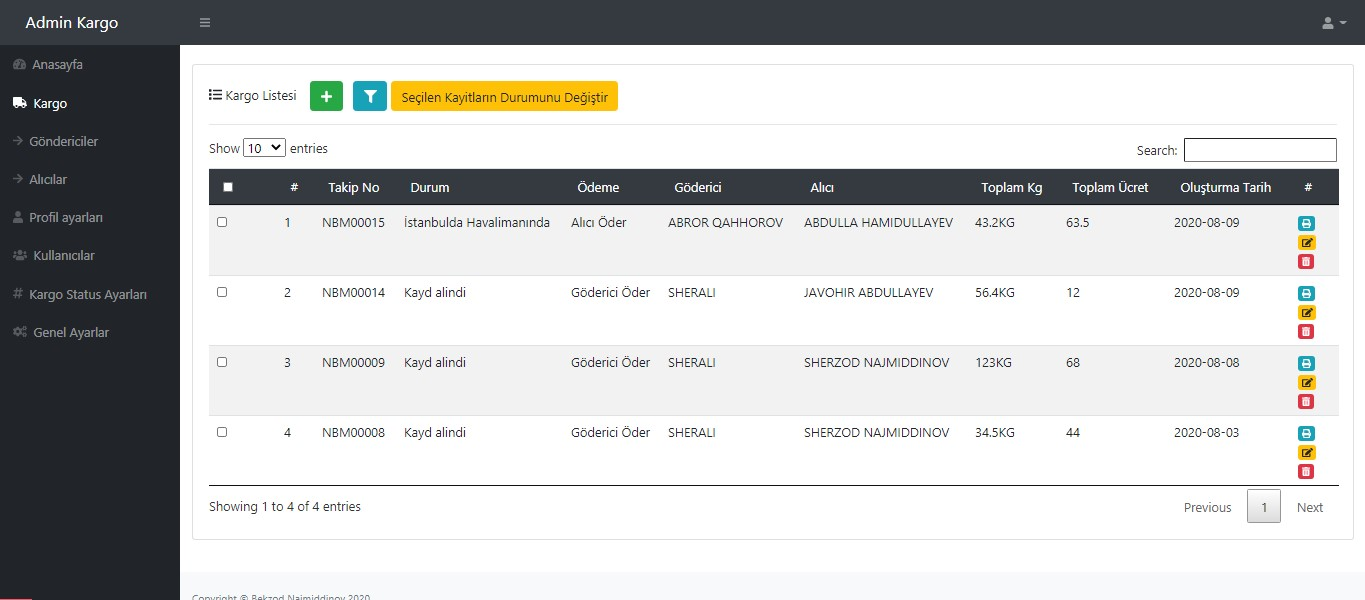
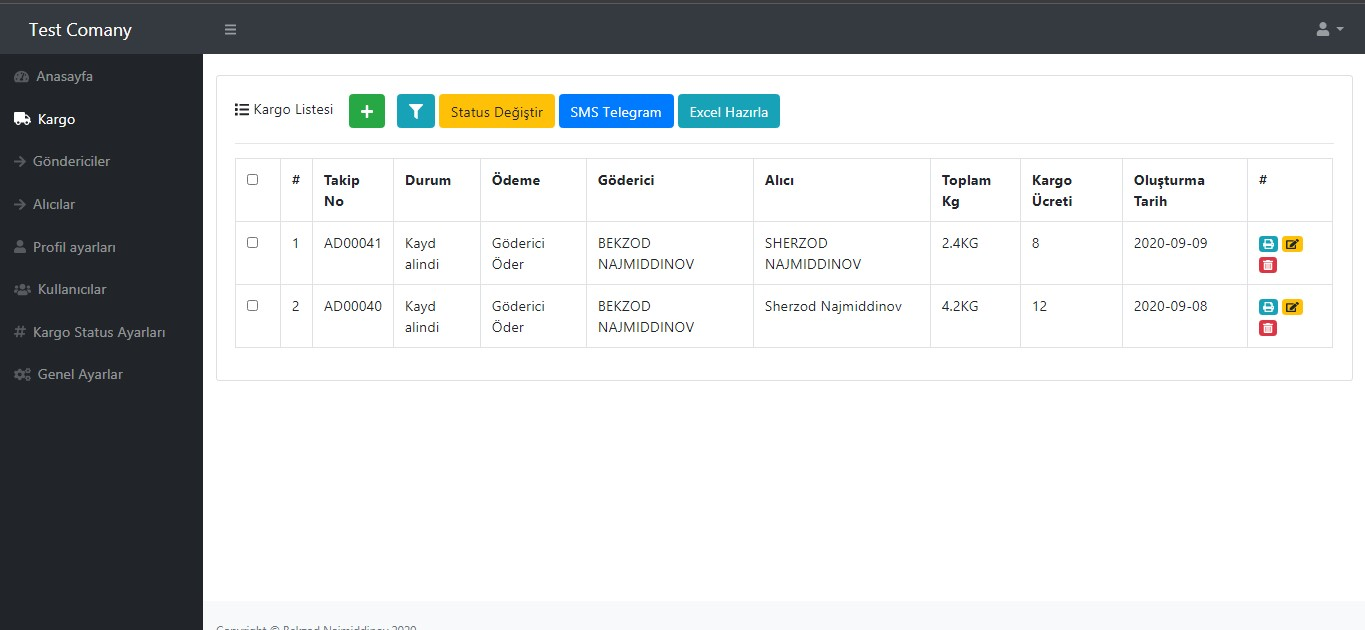
Added New Features Version 3.0

diff --git a/resources/views/admin/cargo/print.blade.php b/resources/views/admin/cargo/print.blade.php
@@ -2,7 +2,7 @@
 <html>
 	<head>
 		<meta charset="utf-8">
-		<meta name="viewport" content="width=device-width, initial-scale=1">
+		
 		<title>{{Auth::user()->company->name ?? ''}}</title>
 		<link rel="stylesheet" href="https://maxcdn.bootstrapcdn.com/bootstrap/4.4.1/css/bootstrap.min.css">
 		<!-- jQuery library -->
@@ -13,7 +13,7 @@
 		<script src="https://maxcdn.bootstrapcdn.com/bootstrap/4.4.1/js/bootstrap.min.js"></script>
 		<style type="text/css">
 			body{
-				font-size:10px;
+				font-size:9px;
 			}
 		</style>
 	</head>
@@ -24,7 +24,7 @@
 			<div class="row">
 				
 
-				<div class="col-md-4">
+				<div class="col-sm-4">
 					<center>
 					
 					<img style="width:auto"; height="100px" 
@@ -53,9 +53,13 @@
 						<td style="padding:0 15px 0 15px;"><b>Email </b></td>
 						<td style="padding:0 15px 0 15px;">{{$company->email}}</td>
 					</tr>
+					<tr>
+						<td style="padding:0 15px 0 15px;"><b>User</b></td>
+						<td style="padding:0 15px 0 15px;">{{ Auth::user()->name }}</td>
+					</tr>
 					</table>
 				</div>
-				<div class="col-md-4">
+				<div class="col-sm-4">
 					{{-- sender info --}}
 					<center><h1>Invoice</h1></center><br>
 					<table class="table-bordered" style="width:100%">
@@ -85,8 +89,7 @@
 					{{-- receiver info --}}
 					<br>
 					<table class="table-bordered" style="width:100%">
-						<input type="hidden" name="receiver_id"
-						value="{{$cargo->receiver->id}}">
+						
 						<tr>
 							<td class="text-center" style="padding:5px;" colspan="2">
 								<b>Receiver Info</b>
@@ -105,11 +108,15 @@
 						</tr>
 						{{-- sender phone --}}
 						<tr>
-							<td style="padding:0 15px 0 15px;"><b>Telefon </b></td>
+							<td style="padding:0 15px 0 15px;"><b>Telefon: 1 </b></td>
 							<td style="padding:0 15px 0 15px;">{{$cargo->receiver->phone}}
 							</td>
 						</tr>
-						
+						<tr>
+							<td style="padding:0 15px 0 15px;"><b>Telefon: 2 </b></td>
+							<td style="padding:0 15px 0 15px;">{{$cargo->receiver->other_phone ?? '-'}}
+							</td>
+						</tr>
 						<tr>
 							<td style="padding:0 15px 0 15px;"><b>Address </b></td>
 							<td style="padding:0 15px 0 15px;">
@@ -121,27 +128,27 @@
 					
 					
 				</div>
-				<div class="col-md-4">
+				<div class="col-sm-4">
 					<center><img src="{{url($barcode)}}"></center><br>
 					<table class="table-bordered" style="width:100%">
 						<input type="hidden" name="cargo_id"
 						value="{{$cargo->id}}">
 						<tr>
-							<td class="text-center" style="padding:5px;" colspan="2"><b>Kargo Bilgileri</b></td>
+							<td class="text-center" style="padding:5px;" colspan="2"><b>Kargo Info</b></td>
 						</tr>
 						<tr>
 							<td colspan="2" class="text-center"><h1>{{$cargo->number ?? ''}}</h1></td>
 						</tr>
 						<tr>
-							<td>Cargo Kg</td>
+							<td><b>Cargo Kg</b></td>
 							<td style="padding:0 15px 0 15px;">{{$cargo->total_kg}}</td>
 						</tr>
 						<tr>
-							<td>Shipping fee</td>
+							<td><b>Shipping fee</b></td>
 							<td style="padding:0 15px 0 15px;">{{$cargo->cargo_price}}</td>
 						</tr>
 						<tr>
-							<td>Payment type</td>
+							<td><b>Payment type</b></td>
 							<td style="padding:0 15px 0 15px;">
 								{{$cargo->payment_type == 1 ? "Sender Pays":""}}
 								
@@ -152,7 +159,7 @@
 						</tr>
 					</table>
 				</div>
-				<div class="col-md-12">
+				<div class="col-sm-12">
 					<br>
 					<table class="table-bordered" style="width:100%;" >
 						<tr>

diff --git a/app/Http/Controllers/Admin/CargoController.php b/app/Http/Controllers/Admin/CargoController.php
@@ -355,25 +355,93 @@ class CargoController extends Controller
         }
         $cargos = $cargos->get();
 
+
+
+        
+
+        if($request->type == 'manafes')
+        {
         $datas = [
-                    [ 'Invoice No','Name','Passport','Total KG','Total Price'],
-                ];
-        foreach ($cargos as $key => $value) {
+                [ 'Invoice No','Name','Passport','Total KG','Total Price'],
+            ];
+        foreach ($cargos as $key => $value) 
+        {
             
             $data = [   
                         $value->number ?? '',
                         $value->receiver->name ?? '',
                         $value->receiver->passport ?? '',
                         $value->total_kg ?? '',
-                        '$'.$value->total_price ?? ''
+                        $value->total_price,
                     ];
 
             array_push($datas, $data);
             
         }
+
      
         $date = date('d.m.Y');
         $filename = $date.'-manafes.xlsx';
+        }
+        if($request->type == 'baza')
+        {
+            
+            $datas = [
+                    ['Invoice No','Tarih','Sender','Sender Tel','Recevier','Receiver Tel:1','Receiver Tel:2','Address','Total KG','Total Price','Passport','']
+                ];
+            $product_headers = ['Product Name','Total Count','Price','Total Price',''];
+            for($i=1; $i<22; $i++)
+            {
+            array_push($datas[0], 'Product Name. '.$i);
+            array_push($datas[0], 'Total Count. '.$i);
+            array_push($datas[0], 'Price. '.$i);
+            array_push($datas[0], 'Total Price. '.$i);
+            array_push($datas[0],'');
+            }
+            
+            foreach ($cargos as $key => $cargo) 
+            {
+                $products = Product::where('cargo_id','=',$cargo->id)->get();
+                
+
+                $data = [   
+                        $cargo->number ?? '',
+                        $cargo->created_at ?? '',
+                        $cargo->sender->name ?? '',
+                        $cargo->sender->phone ?? '',
+                        $cargo->receiver->name ?? '',
+                        $cargo->receiver->phone ?? '',
+                        $cargo->receiver->other_phone ?? '',
+                        $cargo->receiver->address ?? '',
+                        $cargo->total_kg ?? '',
+                        $cargo->total_price ?? '',
+                        $cargo->receiver->passport ?? '',
+                        '',
+                        ];
+              
+
+                foreach ($products as $key => $product) 
+                {
+                    if($cargo->id == $product->cargo_id)
+                    {
+                        
+                        array_push($data, $product->name ?? '');
+                        array_push($data, $product->count ?? '');
+                        array_push($data, $product->cost ?? '');
+                        array_push($data, $product->total ?? '');
+                        array_push($data, '');
+                       
+                    }
+                }
+                
+                array_push($datas, $data);
+
+            }
+            $date = date('d.m.Y');
+            $filename = $date.'-baza.xlsx';
+            // dd($datas);
+        }
+
         return Excel::download(new App\Exports\CargoExcel($datas), $filename);
     }
 

diff --git a/resources/views/home.blade.php b/resources/views/home.blade.php
@@ -56,6 +56,13 @@
                     <h2>Ne teklif ediyoruz </h2>
                     <p>
                     Bu web site Türkiyede özellikle İstanbul’da bulunan, Rusya ve Orta Asya ülkelerine  kargo hizmeti veren şirketler müşterilere daha iyi hizmet verebileri için yapılmıştır. Portal kargo ile kargonuz nerede olduğunu  kolayca oğrenebilirsiniz. Kargo şirketleri kendi işlerini kolayca yönetebilirler. Şirketler için aşağidaki özellikleri sunmaktayız!</p>
+                    <ul class="list-group">
+                        <li class="list-group-item text-info">Her Gönderi İçin Özel Kargo Takip No</li>
+                        <li class="list-group-item text-info">Kargo Telegram Bilgilendirmesi</li>
+                        <li class="list-group-item text-success">Dinamik Invoice</li>
+                        <li class="list-group-item text-danger">Manafes Hazırlama - Excel</li>
+                        <li class="list-group-item text-primary">Baza Hazırlama - Excel</li>
+                    </ul>
                 </div>
             </div>
         </div>

diff --git a/resources/views/admin/cargo/excelModal.blade.php b/resources/views/admin/cargo/excelModal.blade.php
@@ -30,6 +30,14 @@
                             @endforeach
                         </select>
                     </div>
+                    <div class="form-group">
+                        <label>Yedek Türü</label>
+                        <select class="form-control" name="type" required >
+                            
+                            <option value="manafes">Manafes</option>
+                            <option value="baza">Baza</option>
+                        </select>
+                    </div>
 
                     <button type="submit" class="btn btn-success">Ok</button>
                 </form>

diff --git a/resources/views/admin/cargo/index.blade.php b/resources/views/admin/cargo/index.blade.php
@@ -16,11 +16,11 @@
 
 				<button id="sendMessageTelegram" type="button" class="btn btn-primary">SMS Telegram</button>
 
-				<button id="manafes" type="button" class="btn btn-info">Manafes Hazırla</button>
+				<button id="manafes" type="button" class="btn btn-info">Excel Hazırla</button>
 				
 				
 				<hr>
-				<table class="table  table-bordered">
+				<table class="table  table-bordered table-responsive-sm">
 					<thead>
 						<tr>
 							<td style="width:50px;"><input 

diff --git a/resources/views/admin/settings/index.blade.php b/resources/views/admin/settings/index.blade.php
@@ -67,10 +67,7 @@
 						<textarea class="form-control" name="other_address">{{Auth::user()->company->other_address ?? ''}}</textarea>
 					</div>
 
-					<div class="form-group">
-						<label>Telegram Bot Info</label>
-						<textarea id="editor1" class="form-control" name="bot_info"></textarea>
-					</div>
+					
 
 					<button class="btn btn-success">Güncelle</button>
 				</form>
